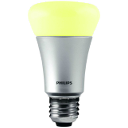
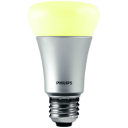
Updated light group image. Updated default light image. Removed obsolete image resource LCT001_unr.

diff --git a/WinHue3/MainWindow.xaml b/WinHue3/MainWindow.xaml
@@ -72,8 +72,8 @@
                     <RibbonButton x:Name="btnSearchSensors" Label="{x:Static resx:GUI.MainForm_Tab_Home_Group_SearchSensor}" LargeImageSource="Resources/SensorSearch.png" ToolTip="{x:Static resx:GUI.MainForm_Tab_Home_Group_SearchSensor}" SmallImageSource="Resources/SensorSearch.png" Command="{Binding SearchNewSensorsCommand}"/>
                 </RibbonGroup>
                 <RibbonGroup Header="{x:Static resx:GUI.MainForm_Tab_Home_Group_Commands}">
-                    <RibbonButton x:Name="btnAllOn" Label="{x:Static resx:GUI.MainForm_Tab_Home_Group_CommandsAllON}"   VerticalAlignment="Center" LargeImageSource="Resources/grp_on.png"  SmallImageSource="Resources/grp_on.png" Command="{Binding AllOnCommand}"/>
-                    <RibbonButton x:Name="btnAllOff" Label="{x:Static resx:GUI.MainForm_Tab_Home_Group_CommandsAllOFF}"  VerticalAlignment="Center" LargeImageSource="Resources/grp_off.png" SmallImageSource="Resources/grp_off.png" Command="{Binding AllOffCommand}"/>
+                    <RibbonButton x:Name="btnAllOn" Label="{x:Static resx:GUI.MainForm_Tab_Home_Group_CommandsAllON}"   VerticalAlignment="Center" LargeImageSource="Resources/HueGroupOn-Large.png"  SmallImageSource="Resources/HueGroupOn.png" Command="{Binding AllOnCommand}"/>
+                    <RibbonButton x:Name="btnAllOff" Label="{x:Static resx:GUI.MainForm_Tab_Home_Group_CommandsAllOFF}"  VerticalAlignment="Center" LargeImageSource="Resources/HueGroupOff-Large.png" SmallImageSource="Resources/HueGroupOff.png" Command="{Binding AllOffCommand}"/>
                 </RibbonGroup>
                 <RibbonGroup Header="{x:Static resx:GUI.MainForm_Tab_Home_Group_Refresh}" >
                     <RibbonButton x:Name="btnRefresh" Label="{x:Static resx:GUI.MainForm_Tab_Home_Group_RefreshButton}"  LargeImageSource="Resources/1409707765_reload.png" SmallImageSource="Resources/1409707765_reload.png" Command="{Binding RefreshViewCommand}"/>
@@ -83,7 +83,7 @@
                     <RibbonButton x:Name="btnScene" Label="{x:Static resx:GUI.MainForm_Tab_Home_Group_Creators_CreateScene}"  LargeImageSource="Resources/SceneLarge.png" SmallImageSource="Resources/SceneLarge.png" Command="{Binding CreateSceneCommand}"/>
                     <RibbonButton x:Name="btnCreateSchedule" Label="{x:Static resx:GUI.MainForm_Tab_Home_Group_Creators_CreateSchedule}" LargeImageSource="Resources/SchedulesLarge.png" SmallImageSource="Resources/SchedulesSmall.png" Command="{Binding CreateScheduleCommand}"/>
                     <RibbonButton x:Name="btnCreateRule" Label="{x:Static resx:GUI.MainForm_Tab_Home_Group_Creators_CreateRule}" LargeImageSource="Resources/rules.png" SmallImageSource="Resources/rules.png" Command="{Binding CreateRuleCommand}"/>
-                    <RibbonButton x:Name="btnCreateSensor" Label="{x:Static resx:GUI.MainForm_Tab_Home_Group_Creators_CreateSensor}" LargeImageSource="Resources/sensor2.png" SmallImageSource="Resources/sensor2.png" Command="{Binding CreateSensorCommand}"/>
+                    <RibbonButton x:Name="btnCreateSensor" Label="{x:Static resx:GUI.MainForm_Tab_Home_Group_Creators_CreateSensor}" LargeImageSource="Resources/sensor.png" SmallImageSource="Resources/sensor.png" Command="{Binding CreateSensorCommand}"/>
                     <!--<RibbonButton x:Name="btnCreateAnimation" Label="{x:Static resx:GUI.MainForm_Tab_Home_Group_Creators_CreateAnimation}" IsEnabled="{Binding EnableControls, FallbackValue=false}" Command="{Binding CreateAnimationCommand}" LargeImageSource="Resources/animation.png"/>-->
                     <RibbonButton x:Name="btnCreateHotkey" Label="{x:Static resx:GUI.MainForm_Tab_Home_Group_Creators_CreateHotkey}" Command="{Binding CreateHotKeyCommand}" LargeImageSource="Resources/1465102684_preferences-desktop-keyboard-shortcuts.png"/>
                     <RibbonButton x:Name="btnCreateResourceLink" Label="{x:Static resx:GUI.MainForm_Tab_Home_Group_Creators_ResourceLink}"  Command="{Binding CreateResourceLinkCommand}" LargeImageSource="Resources/resource.png"/>

diff --git a/WinHue3/Properties/Resources.Designer.cs b/WinHue3/Properties/Resources.Designer.cs
@@ -493,16 +493,6 @@ namespace WinHue3.Properties {
         /// <summary>
         ///   Looks up a localized resource of type System.Drawing.Bitmap.
         /// </summary>
-        public static System.Drawing.Bitmap sensor2 {
-            get {
-                object obj = ResourceManager.GetObject("sensor2", resourceCulture);
-                return ((System.Drawing.Bitmap)(obj));
-            }
-        }
-        
-        /// <summary>
-        ///   Looks up a localized resource of type System.Drawing.Bitmap.
-        /// </summary>
         public static System.Drawing.Bitmap SensorSearch {
             get {
                 object obj = ResourceManager.GetObject("SensorSearch", resourceCulture);
